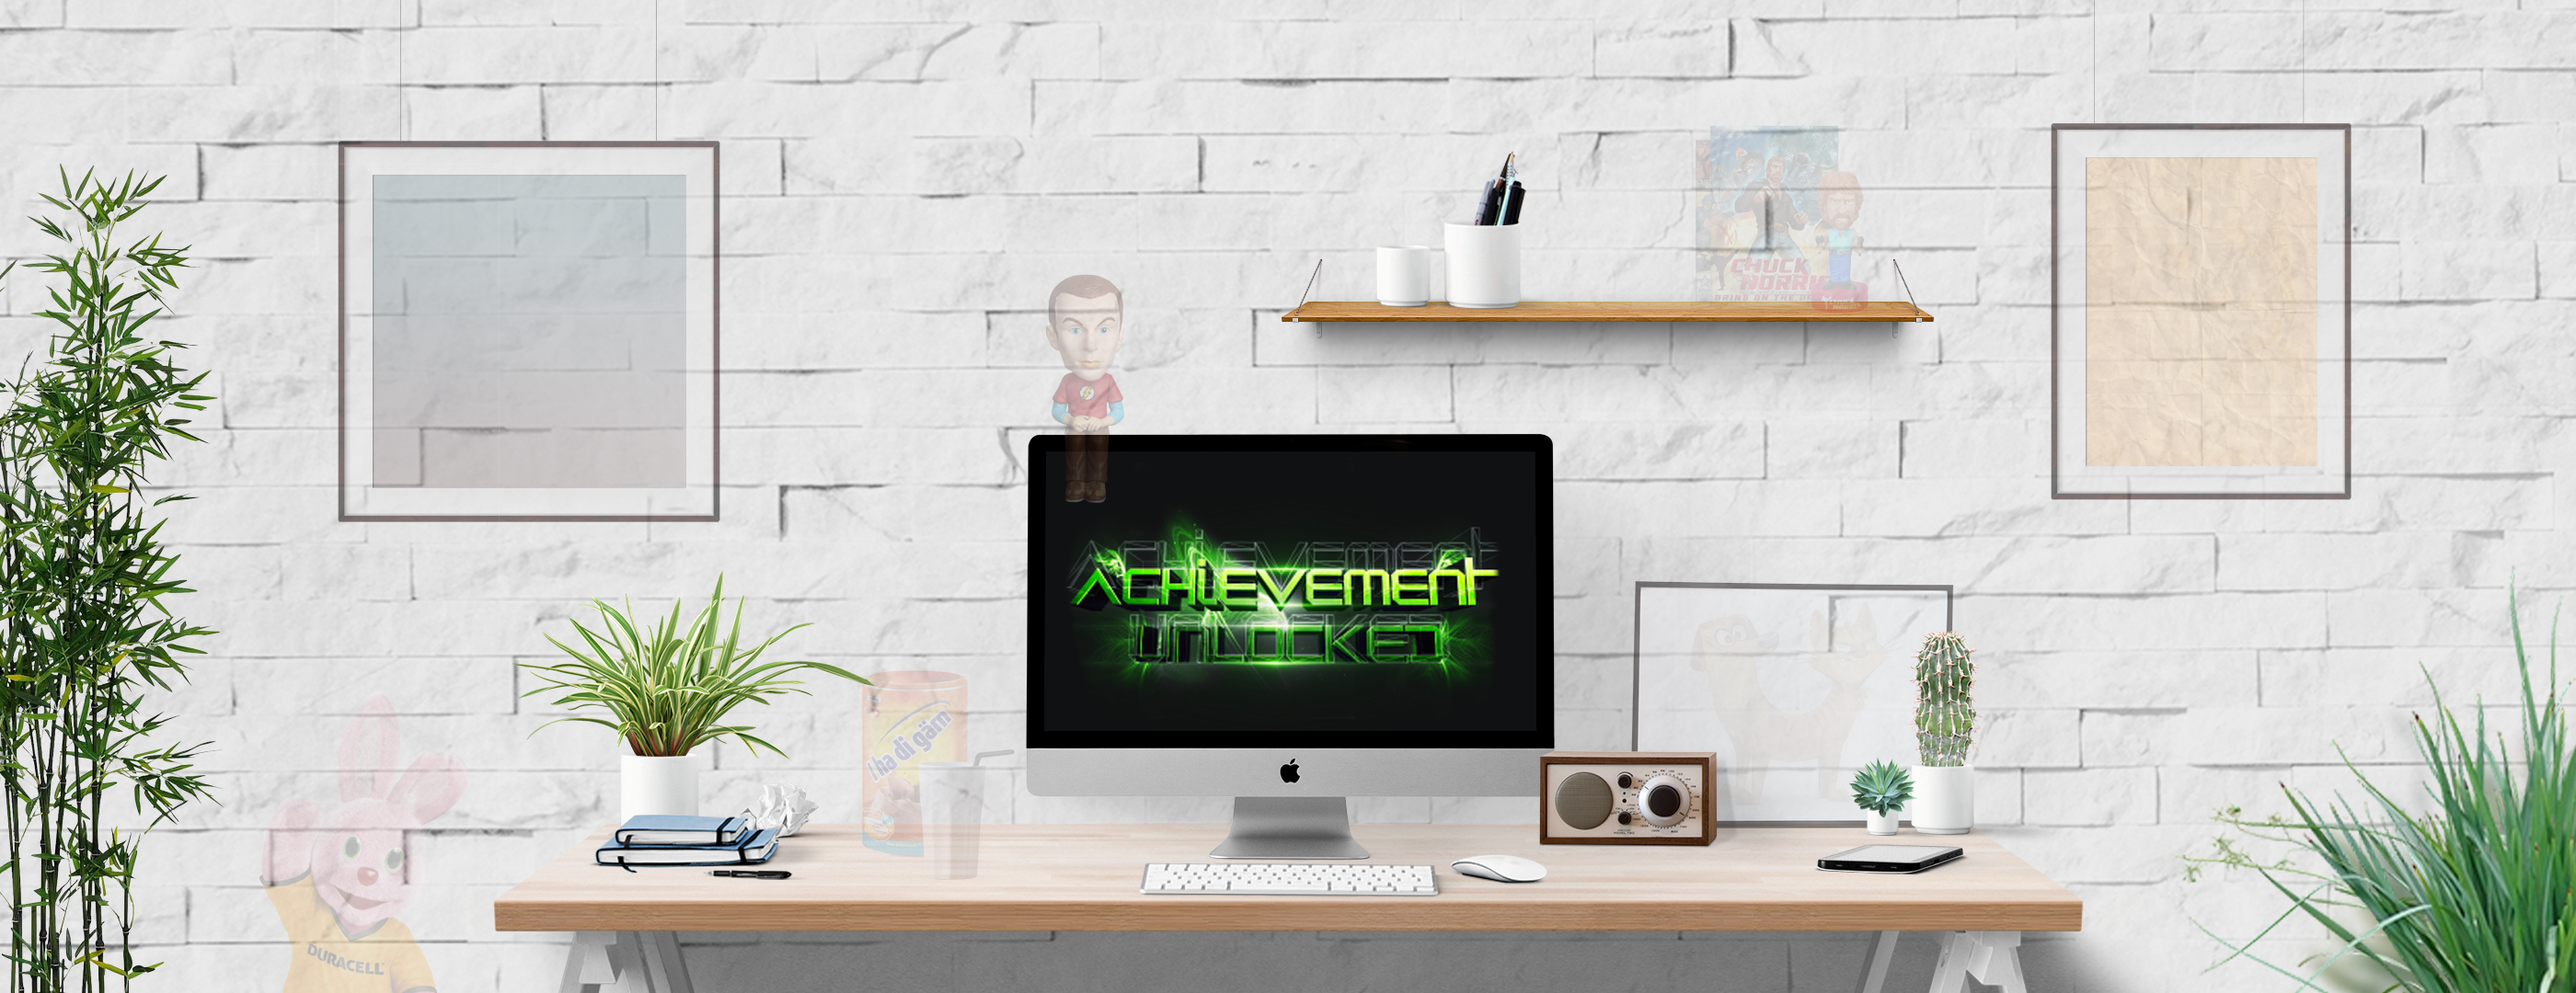
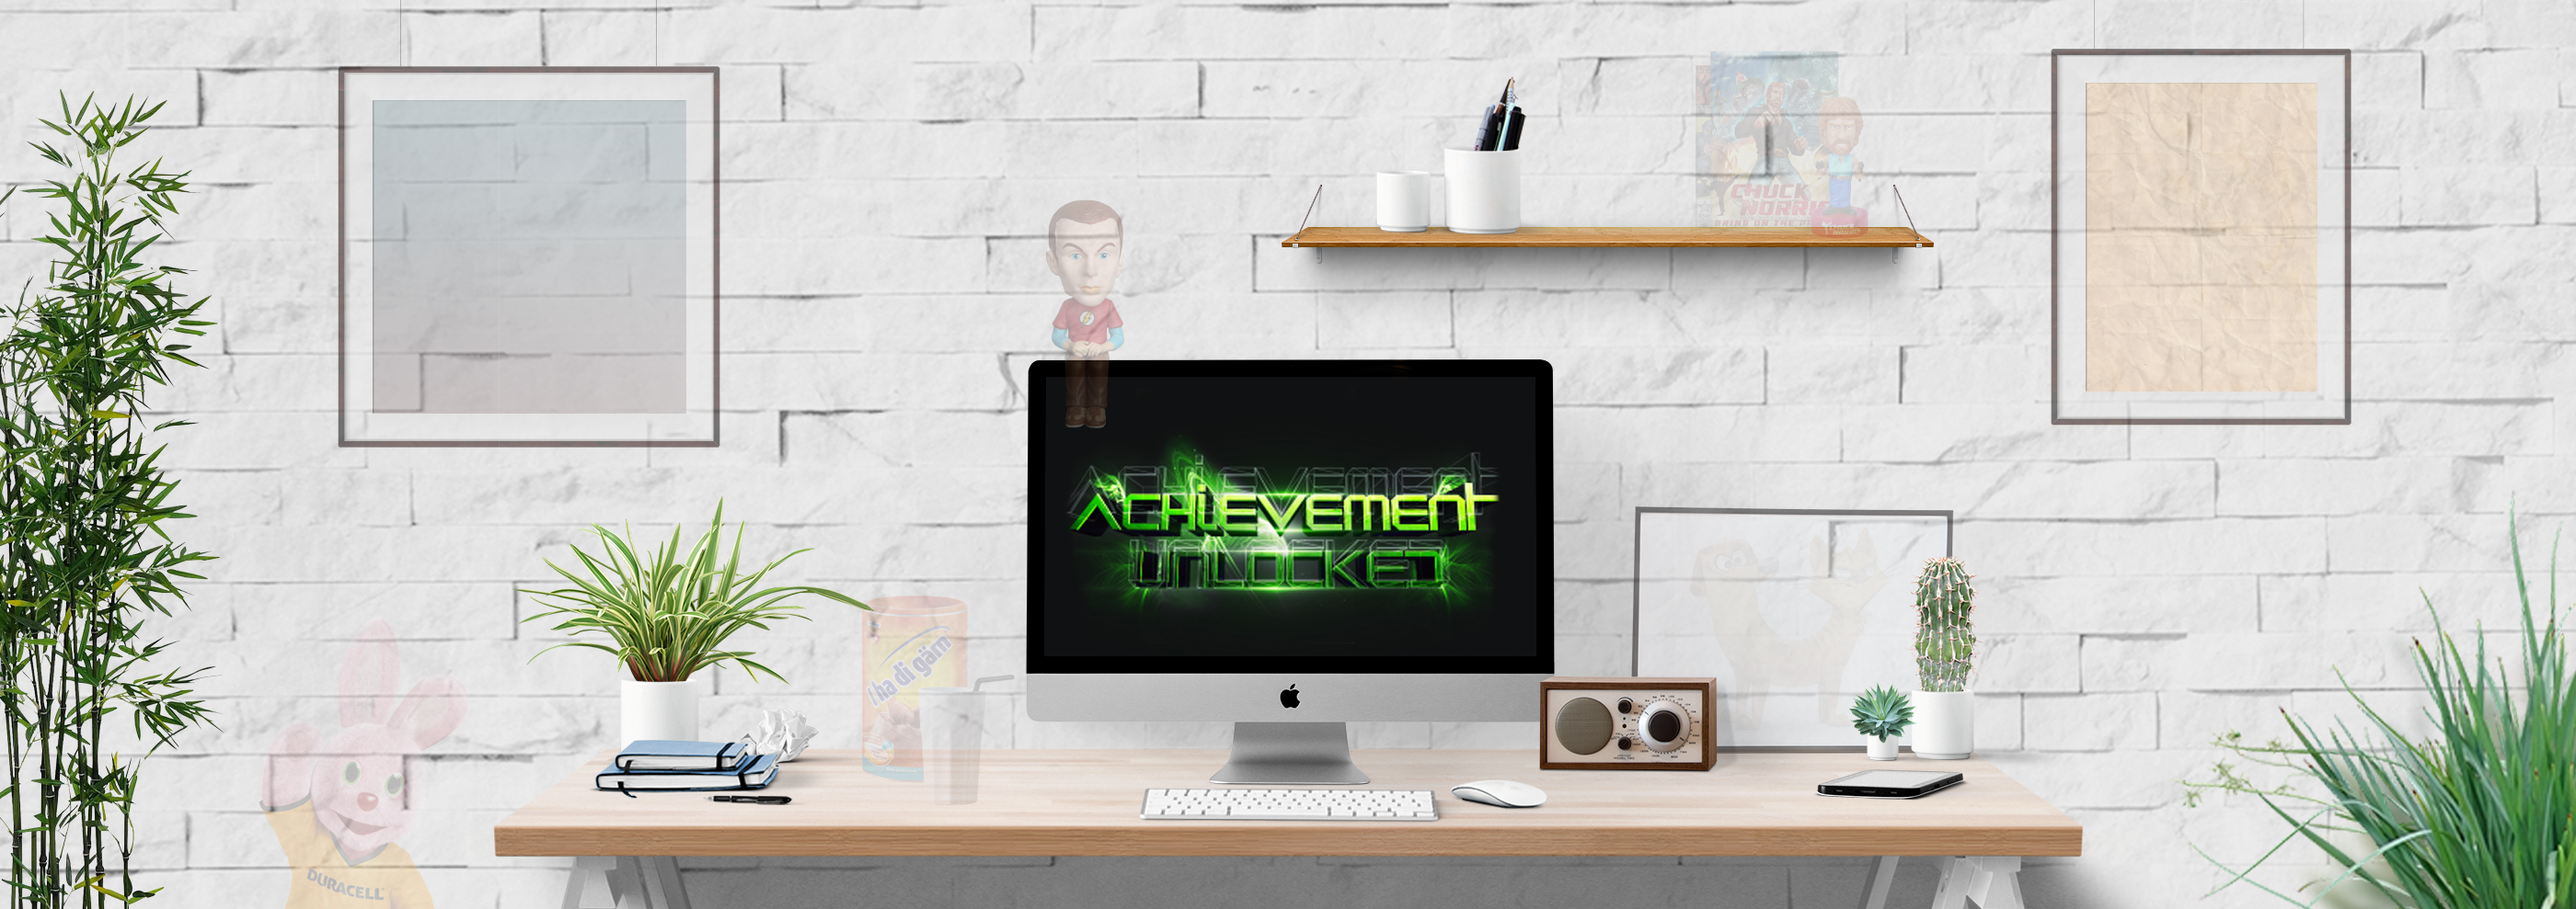
Working

diff --git a/css/style.css b/css/style.css
@@ -20,8 +20,8 @@ a:hover, a:focus {
     position: absolute;
     top: 0;
     left: 0;
-    background-image: url('/img/hall_of_fame_farbig.jpg');
-    background-position: 0px -50px;
+    background-image: url('/img/hall_of_fame.png');
+    background-position: 0 0;
     transition: all 800ms ease-in-out;
 }
 .hall-of-fame .horizontal-scroll.black-white {
@@ -65,7 +65,7 @@ a.invisible {
     transform: rotateZ(-90deg);
     transform-origin: 0% 50%;
     position: absolute;
-    top: 740px;
+    bottom: 180px;
     left: 75px;
     font-family: 'Open Sans';
     font-size: 32px;
@@ -75,13 +75,17 @@ a.invisible {
 }
 .avatar {
     position: absolute;
-    top: 797px;
+    bottom: 137px;
     left: 55px;
 }
 
 #menu-1,
 #menu-2 {
     display: none;
+}
+
+figure.achieve.is-active {
+    opacity: 1;
 }
 
 .slide-1 #menu-1 {
@@ -92,7 +96,8 @@ a.invisible {
 }
 
 /* badges */
-.achieve:hover {
+.achieve:hover,
+.achieve.isActive {
     opacity: 1;
 }
 .achieve {
@@ -108,37 +113,49 @@ a.invisible {
     background-image: url('/img/foreveralone.png');
     width: 482px;
     height: 623px;
-    top: -50px;
+    top: -81px;
     left: 367px;
 }
 .achieve.duracell-master {
     background-image: url('/img/dbunny.png');
     width: 274px;
     height: 334px;
-    bottom: -45px;
+    bottom: -15px;
     left: 280px;
 }
 .achieve.ovo-master {
-
+    background-image: url('/img/ovo.png');
+    width: 221px;
+    height: 242px;
+    bottom: 100px;
+    left: 931px;
 }
 .achieve.sheldon-award {
-
+    background-image: url('/img/sheldon.png');
+    width: 103px;
+    height: 257px;
+    left: 1137px;
+    top: 214px;
 }
 .achieve.catdog-award {
     background-image: url('/img/catdog.png');
     width: 526px;
     height: 275px;
-    bottom: 132px;
+    bottom: 161px;
     left: 1760px;
 }
 .achieve.zombie-award {
-
+    background-image: url('/img/zombie.png');
+    width: 393px;
+    height: 596px;
+    left: 2229px;
+    top: -81px;
 }
 .achieve.chuck-norris-award {
     background-image: url('/img/chucknorris.png');
     width: 219px;
     height: 246px;
-    top: 63px;
+    top: 32px;
     left: 1823px;
 }
 
@@ -194,6 +211,6 @@ section.userview {
 }
 
 /* Animations */
-.section.drop-out .card {
+section.drop-out .card {
     transform: rotateX(90deg);
 }

diff --git a/js/app.js b/js/app.js
@@ -74,11 +74,11 @@ $(function() {
                     console.log('WTF?!');
                 },
                 success: function(data) {
-                    $('section').addClass('drop-out');
+                    $('section.userview').addClass('drop-out');
                     setTimeout(function() {
-                        $('section.active').html(data['html']);
+                        $('section.userview').html(data['html']);
                         setTimeout(function() {
-                            $('section').removeClass('drop-out');
+                            $('section.userview').removeClass('drop-out');
                         }, 25);
                     }, 500);
                 },

diff --git a/css/jquery.horizontal.scroll.css b/css/jquery.horizontal.scroll.css
@@ -6,7 +6,7 @@
 
 #horiz_container_outer
 {
-    width: 1905px;
+    width: 100%;
     overflow-x: hidden;
     overflow-y: hidden;
     position: relative;

diff --git a/php/templates/home.php b/php/templates/home.php
@@ -44,7 +44,7 @@
                             <ul id="horiz_container">
                                 <li>
                                     <div class="hall-of-fame">
-                                        <figure class="achieve forever-alone">
+                                        <figure class="achieve forever-alone is-active">
                                             <a href="#" tabindex="0" class="invisible" role="button" data-toggle="popover" data-trigger="focus"
                                                title="Achievement: Forever Alone"
                                                data-content="<?= $app->getPopover("forever-alone.php") ?>"></a>
@@ -70,13 +70,13 @@
 
                                         <figure class="achieve catdog-award">
                                             <a href="#" tabindex="0" class="invisible" role="button" data-toggle="popover" data-trigger="focus"
-                                               title="Achievement: Catdog Award"
+                                               title="Achievement: Catdog Award" data-placement="left"
                                                data-content="<?= $app->getPopover("catdog-award.php") ?>"></a>
                                         </figure>
 
                                         <figure class="achieve zombie-award">
                                             <a href="#" tabindex="0" class="invisible" role="button" data-toggle="popover" data-trigger="focus"
-                                               title="Achievement: Zombie Award"
+                                               title="Achievement: Zombie Award" data-placement="left"
                                                data-content="<?= $app->getPopover("zombie-award.php") ?>"></a>
                                         </figure>
 
